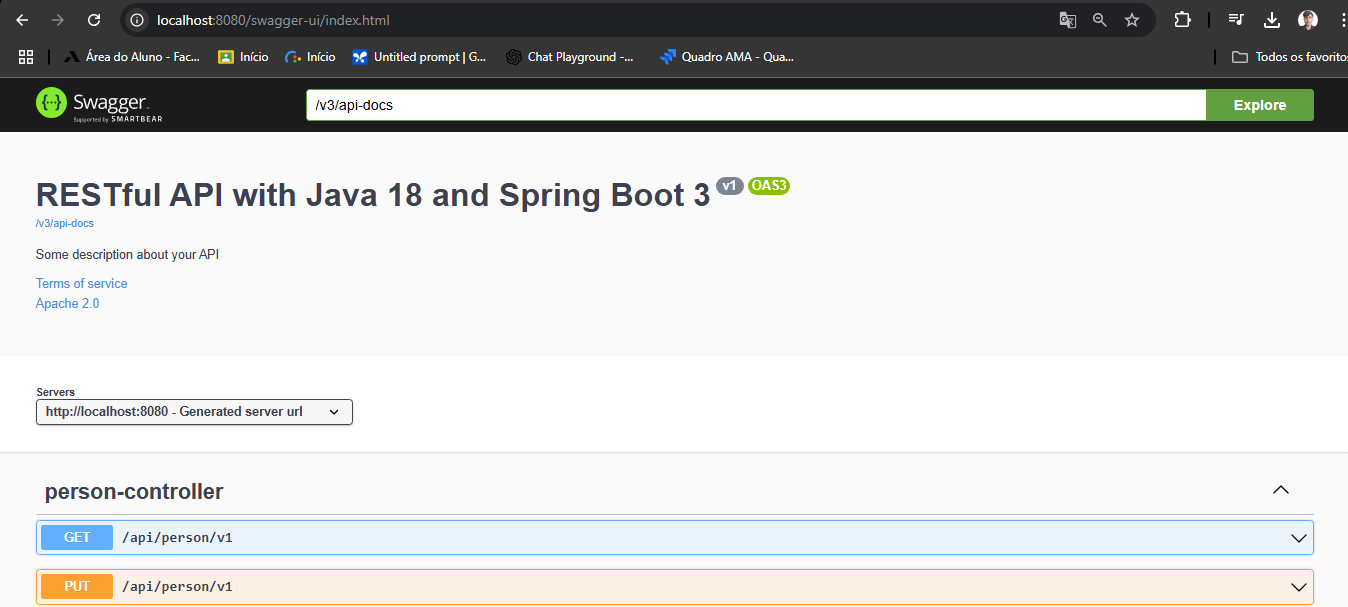
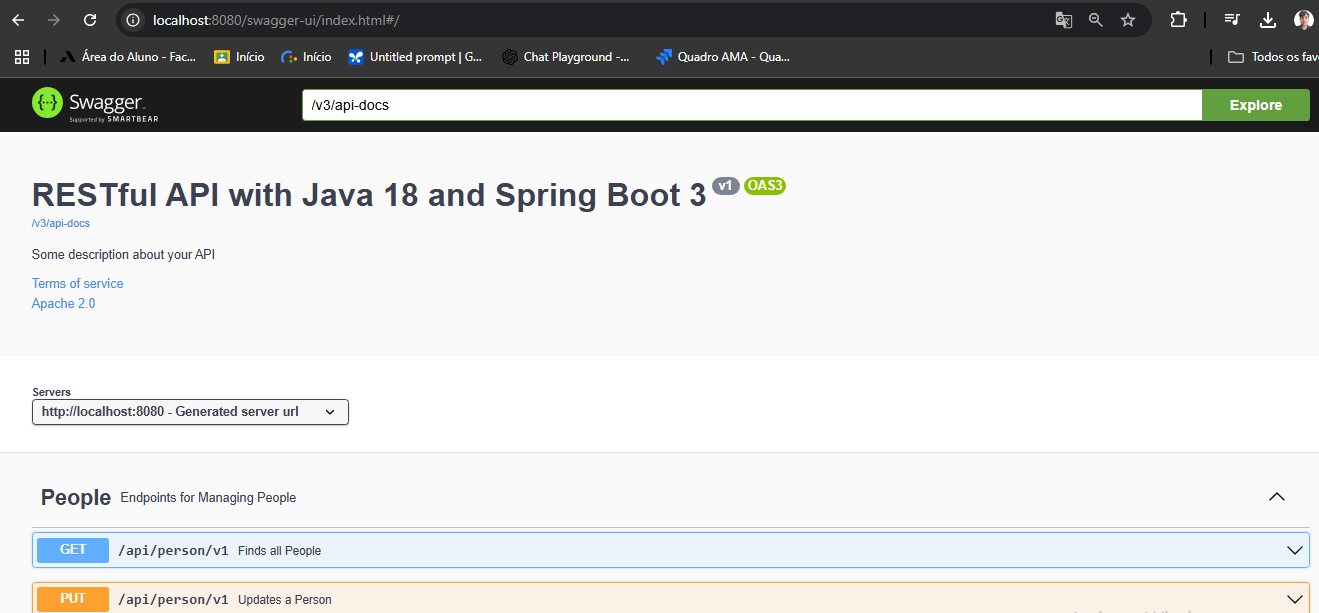
Feat: Adicionando customizacoes do swagger a personController

diff --git a/13_ContentNegotiation/rest-with-spring-boot-and-java-erudio13/src/main/java/br/com/erudio/controllers/PersonController.java b/13_ContentNegotiation/rest-with-spring-boot-and-java-erudio13/src/main/java/br/com/erudio/controllers/PersonController.java
@@ -16,49 +16,114 @@ import org.springframework.web.bind.annotation.RestController;
 import br.com.erudio.data.vo.v1.PersonVO;
 import br.com.erudio.services.PersonServices;
 import br.com.erudio.util.MediaType;
+import io.swagger.v3.oas.annotations.Operation;
+import io.swagger.v3.oas.annotations.media.ArraySchema;
+import io.swagger.v3.oas.annotations.media.Content;
+import io.swagger.v3.oas.annotations.media.Schema;
+import io.swagger.v3.oas.annotations.responses.ApiResponse;
+import io.swagger.v3.oas.annotations.tags.Tag;
 
 @RestController
 @RequestMapping("/api/person/v1")
+@Tag(name = "People", description = "Endpoints for Managing People")
 public class PersonController {
 	
 	@Autowired
 	private PersonServices service;
 	
-	@GetMapping(produces = { MediaType.APPLICATION_JSON,
-			MediaType.APPLICATION_XML,
-			MediaType.APPLICATION_YML 
-			})
+	@GetMapping(
+		produces = { MediaType.APPLICATION_JSON, MediaType.APPLICATION_XML, MediaType.APPLICATION_YML })
+	@Operation(summary = "Finds all People", description = "Finds all People",
+		tags = {"People"},
+		responses = {
+			@ApiResponse(description = "Success", responseCode = "200",
+				content = {
+					@Content(
+						mediaType = "application/json",
+						array = @ArraySchema(schema = @Schema(implementation = PersonVO.class))
+					)
+				}),
+			@ApiResponse(description = "Bad Request", responseCode = "400", content = @Content),
+			@ApiResponse(description = "Unauthorized", responseCode = "401", content = @Content),
+			@ApiResponse(description = "Not Found", responseCode = "404", content = @Content),
+			@ApiResponse(description = "Internal Error", responseCode = "500", content = @Content),
+		}
+	)
 	public List<PersonVO> findAll() {
 		return service.findAll();
 	}
 	
 	@GetMapping(value = "/{id}",
-		produces = { MediaType.APPLICATION_JSON, MediaType.APPLICATION_XML,
-				MediaType.APPLICATION_YML  })
+		produces = { MediaType.APPLICATION_JSON, MediaType.APPLICATION_XML, MediaType.APPLICATION_YML  })
+	@Operation(summary = "Finds a Person", description = "Finds a Person",
+		tags = {"People"},
+		responses = {
+			@ApiResponse(description = "Success", responseCode = "200",
+				content = @Content(schema = @Schema(implementation = PersonVO.class))
+			),
+			@ApiResponse(description = "No Content", responseCode = "204", content = @Content),
+			@ApiResponse(description = "Bad Request", responseCode = "400", content = @Content),
+			@ApiResponse(description = "Unauthorized", responseCode = "401", content = @Content),
+			@ApiResponse(description = "Not Found", responseCode = "404", content = @Content),
+			@ApiResponse(description = "Internal Error", responseCode = "500", content = @Content),
+		}
+	)
 	public PersonVO findById(@PathVariable(value = "id") Long id) {
 		return service.findById(id);
 	}
 	
 	@PostMapping(
-		consumes = { MediaType.APPLICATION_JSON, MediaType.APPLICATION_XML,
-				MediaType.APPLICATION_YML  },
-		produces = { MediaType.APPLICATION_JSON, MediaType.APPLICATION_XML,
-				MediaType.APPLICATION_YML  })
+		consumes = { MediaType.APPLICATION_JSON, MediaType.APPLICATION_XML, MediaType.APPLICATION_YML  },
+		produces = { MediaType.APPLICATION_JSON, MediaType.APPLICATION_XML, MediaType.APPLICATION_YML  })
+	@Operation(summary = "Adds a new Person",
+		description = "Adds a new Person by passing in a JSON, XML or YML representation of the person!",
+		tags = {"People"},
+		responses = {
+			@ApiResponse(description = "Success", responseCode = "200",
+				content = @Content(schema = @Schema(implementation = PersonVO.class))
+			),
+			@ApiResponse(description = "Bad Request", responseCode = "400", content = @Content),
+			@ApiResponse(description = "Unauthorized", responseCode = "401", content = @Content),
+			@ApiResponse(description = "Internal Error", responseCode = "500", content = @Content),
+		}
+	)
 	public PersonVO create(@RequestBody PersonVO person) {
 		return service.create(person);
 	}
 	
 	@PutMapping(
-		consumes = { MediaType.APPLICATION_JSON, MediaType.APPLICATION_XML,
-				MediaType.APPLICATION_YML  },
-		produces = { MediaType.APPLICATION_JSON, MediaType.APPLICATION_XML,
-				MediaType.APPLICATION_YML  })
+		consumes = { MediaType.APPLICATION_JSON, MediaType.APPLICATION_XML, MediaType.APPLICATION_YML  },
+		produces = { MediaType.APPLICATION_JSON, MediaType.APPLICATION_XML, MediaType.APPLICATION_YML  })
+	@Operation(summary = "Updates a Person",
+		description = "Updates a Person by passing in a JSON, XML or YML representation of the person!",
+		tags = {"People"},
+		responses = {
+			@ApiResponse(description = "Updated", responseCode = "200",
+				content = @Content(schema = @Schema(implementation = PersonVO.class))
+			),
+			@ApiResponse(description = "Bad Request", responseCode = "400", content = @Content),
+			@ApiResponse(description = "Unauthorized", responseCode = "401", content = @Content),
+			@ApiResponse(description = "Not Found", responseCode = "404", content = @Content),
+			@ApiResponse(description = "Internal Error", responseCode = "500", content = @Content),
+		}
+	)
 	public PersonVO update(@RequestBody PersonVO person) {
 		return service.update(person);
 	}
 	
 	
 	@DeleteMapping(value = "/{id}")
+	@Operation(summary = "Deletes a Person",
+		description = "Deletes a Person by passing in a JSON, XML or YML representation of the person!",
+		tags = {"People"},
+		responses = {
+			@ApiResponse(description = "No Content", responseCode = "204", content = @Content),
+			@ApiResponse(description = "Bad Request", responseCode = "400", content = @Content),
+			@ApiResponse(description = "Unauthorized", responseCode = "401", content = @Content),
+			@ApiResponse(description = "Not Found", responseCode = "404", content = @Content),
+			@ApiResponse(description = "Internal Error", responseCode = "500", content = @Content),
+		}
+	)
 	public ResponseEntity<?> delete(@PathVariable(value = "id") Long id) {
 		service.delete(id);
 		return ResponseEntity.noContent().build();
